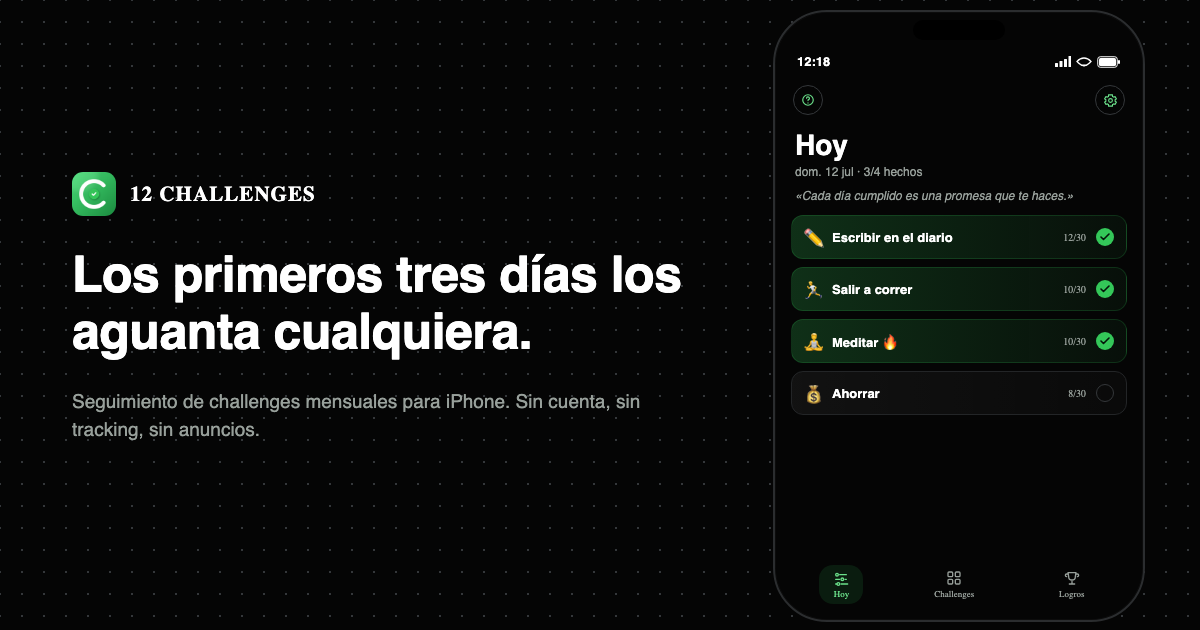
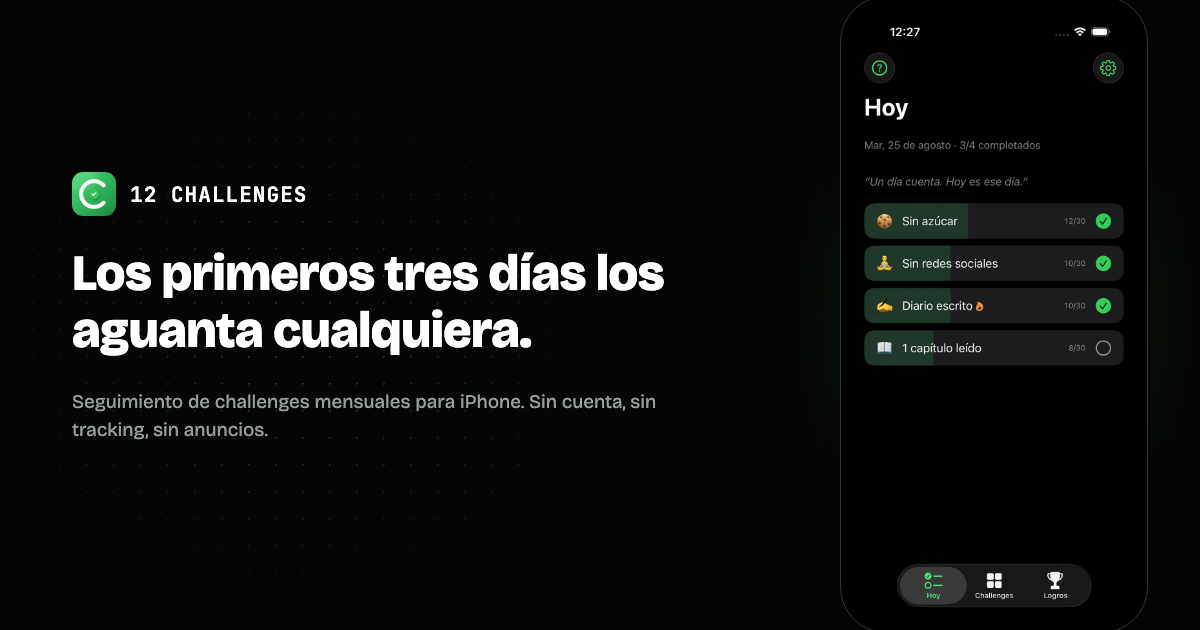
fix: OG-Bilder ES/FR nutzen echten App-Screenshot + Glow-Effekte
- Phone-Mockup zeigt jetzt den echten screenshot-heute-{lang}.webp
  statt einer nachgebauten Fake-UI (gleiche .phone-frame/.phone-screen-
  Logik wie in styles.css)
- Radialer Dot-Grid-Glow hinter dem Textblock ergänzt (an DE-Original
  pixelweise vermessen)
- Grüner Accent-Glow hinter dem Phone ergänzt (.phone-wrap::before,
  wie im Rest der Seite)

diff --git a/scripts/og-image/template.html b/scripts/og-image/template.html
@@ -40,9 +40,19 @@
   body {
     position: relative;
     font-family: "Bricolage Grotesque", sans-serif;
+  }
+
+  /* Dot-grid, faded via radial mask centered on the text block (matches
+     the falloff measured on assets/og-image-de.png: brightest around
+     x=300 y=340, fading out toward the canvas edges). */
+  .dot-grid {
+    position: absolute;
+    inset: 0;
     background-image: radial-gradient(circle, var(--border-visible) 1px, transparent 1px);
-    background-size: 22px 22px;
-    background-position: -11px -11px;
+    background-size: 27px 27px;
+    background-position: -8px -8px;
+    -webkit-mask-image: radial-gradient(ellipse 480px 420px at 300px 340px, #000 0%, transparent 75%);
+    mask-image: radial-gradient(ellipse 480px 420px at 300px 340px, #000 0%, transparent 75%);
   }
 
   .wordmark {
@@ -84,115 +94,65 @@
     color: var(--text-secondary);
   }
 
-  /* --- phone mockup --- */
-  .phone {
+  /* --- phone mockup: same recipe as .phone-wrap/.phone-frame/.phone-screen
+     in the site's own styles.css, just placed absolutely for the OG canvas.
+     Content is a real app screenshot, not a redrawn UI. --- */
+  .phone-wrap {
     position: absolute;
-    right: 55px;
-    top: 10px;
-    width: 372px;
-    height: 612px;
-    background: var(--black);
-    border: 2px solid #2b2d2f;
-    border-radius: 54px;
-    padding: 16px 16px 14px;
-    box-shadow: 0 0 0 1px rgba(255,255,255,0.03) inset;
+    right: 52px;
+    top: -4px;
+    width: 308px;
   }
-  .phone::before {
+  .phone-wrap::before {
     content: "";
     position: absolute;
-    top: 8px;
+    inset: 8% 8%;
+    background: radial-gradient(circle, var(--accent) 0%, transparent 70%);
+    opacity: 0.45;
+    filter: blur(50px);
+    z-index: 0;
+  }
+  .phone-frame {
+    position: relative;
+    z-index: 1;
+    width: 100%;
+    background: #000;
+    border: 1px solid var(--border-visible);
+    border-radius: 46px;
+    padding: 12px;
+    box-shadow: 0 40px 90px -30px rgba(0, 0, 0, 0.85);
+  }
+  .phone-frame::before {
+    content: "";
+    position: absolute;
+    top: 22px;
     left: 50%;
     transform: translateX(-50%);
-    width: 92px;
-    height: 20px;
+    width: 34%;
+    height: 22px;
     background: #000;
-    border-radius: 12px;
+    border-radius: 20px;
+    z-index: 2;
   }
-
-  .status-row {
-    display: flex;
-    justify-content: space-between;
-    align-items: center;
-    color: var(--text-display);
-    font-size: 13px;
-    font-weight: 600;
-    padding: 0 6px;
-    margin-top: 26px;
+  .phone-screen {
+    width: 100%;
+    aspect-ratio: 9 / 19.5;
+    border-radius: 34px;
+    overflow: hidden;
+    background: #000;
   }
-  .status-row .icons { display: flex; align-items: center; gap: 5px; }
-  .status-row svg { display: block; }
-
-  .top-icons {
-    display: flex;
-    justify-content: space-between;
-    padding: 16px 2px 0;
+  .phone-screen img {
+    width: 100%;
+    height: 100%;
+    object-fit: cover;
+    object-position: top;
+    display: block;
   }
-  .circle-btn {
-    width: 30px;
-    height: 30px;
-    border-radius: 50%;
-    border: 1.5px solid var(--border-visible);
-    display: flex;
-    align-items: center;
-    justify-content: center;
-    color: var(--accent-light);
-  }
-
-  .screen-title {
-    font-size: 28px;
-    font-weight: 800;
-    color: var(--text-display);
-    padding: 14px 4px 0;
-  }
-  .screen-date {
-    font-size: 12px;
-    color: var(--text-secondary);
-    padding: 4px 4px 0;
-  }
-  .screen-quote {
-    font-size: 12px;
-    font-style: italic;
-    color: var(--text-secondary);
-    padding: 10px 4px 12px;
-  }
-
-  .task {
-    display: flex;
-    align-items: center;
-    gap: 10px;
-    height: 44px;
-    border-radius: 12px;
-    padding: 0 12px;
-    margin-bottom: 8px;
-    background: linear-gradient(90deg, rgba(52,199,89,0.22), rgba(52,199,89,0.05));
-    border: 1px solid rgba(52,199,89,0.18);
-  }
-  .task .emoji { font-size: 16px; width: 18px; text-align: center; }
-  .task .name { flex: 1; font-size: 13px; font-weight: 600; color: var(--text-display); }
-  .task .count { font-size: 10px; color: var(--text-secondary); font-family: "JetBrains Mono"; }
-  .task .check {
-    width: 18px; height: 18px; border-radius: 50%;
-    display: flex; align-items: center; justify-content: center;
-  }
-  .task .check.done { background: var(--accent); }
-  .task .check.open { border: 1.5px solid var(--border-visible); }
-
-  .tabbar {
-    position: absolute;
-    bottom: 16px;
-    left: 16px;
-    right: 16px;
-    display: flex;
-    justify-content: space-around;
-    align-items: center;
-    padding-top: 8px;
-  }
-  .tab { display: flex; flex-direction: column; align-items: center; gap: 3px; font-size: 9px; font-family: "JetBrains Mono"; color: var(--text-secondary); }
-  .tab.active { color: var(--accent-light); background: rgba(52,199,89,0.12); border-radius: 14px; padding: 5px 14px; }
-  .tab:not(.active) { padding: 5px 14px; }
 </style>
 </head>
 <body>
+
+  <div class="dot-grid"></div>
 
   <div class="wordmark">
     <img src="../../assets/app-icon.png" alt="" />
@@ -202,64 +162,10 @@
   <div class="headline">{{HEADLINE}}</div>
   <div class="sub">{{SUBTEXT}}</div>
 
-  <div class="phone">
-    <div class="status-row">
-      <span>{{TIME}}</span>
-      <span class="icons">
-        <svg width="16" height="11" viewBox="0 0 16 11" fill="none"><rect x="0" y="7" width="3" height="4" rx="0.5" fill="white"/><rect x="4.5" y="5" width="3" height="6" rx="0.5" fill="white"/><rect x="9" y="3" width="3" height="8" rx="0.5" fill="white"/><rect x="13.5" y="0" width="3" height="11" rx="0.5" fill="white"/></svg>
-        <svg width="16" height="12" viewBox="0 0 16 12" fill="none"><path d="M8 9.5C5.8 9.5 3.9 8.5 2.5 7L1 5.5C2.9 3.4 5.3 2 8 2C10.7 2 13.1 3.4 15 5.5L13.5 7C12.1 8.5 10.2 9.5 8 9.5Z" stroke="white" stroke-width="1.3"/><circle cx="8" cy="9.5" r="1.1" fill="white"/></svg>
-        <svg width="24" height="12" viewBox="0 0 24 12" fill="none"><rect x="0.75" y="0.75" width="19.5" height="10.5" rx="2.5" stroke="white" stroke-width="1"/><rect x="2" y="2" width="17" height="8" rx="1.5" fill="white"/><rect x="21" y="4" width="2" height="4" rx="1" fill="white"/></svg>
-      </span>
-    </div>
-    <div class="top-icons">
-      <div class="circle-btn">
-        <svg width="14" height="14" viewBox="0 0 24 24" fill="none" stroke="currentColor" stroke-width="2" stroke-linecap="round"><circle cx="12" cy="12" r="9"/><path d="M9.5 9a2.5 2.5 0 1 1 3.5 2.3c-.8.4-1 .9-1 1.7"/><circle cx="12" cy="17" r="0.3" fill="currentColor"/></svg>
-      </div>
-      <div class="circle-btn">
-        <svg width="15" height="15" viewBox="0 0 24 24" fill="none" stroke="currentColor" stroke-width="1.8"><circle cx="12" cy="12" r="3"/><path d="M19.4 13a7.7 7.7 0 0 0 0-2l2-1.5-2-3.5-2.4.6a7.6 7.6 0 0 0-1.7-1L15 3h-6l-.3 2.6a7.6 7.6 0 0 0-1.7 1L4.6 6 2.6 9.5 4.6 11a7.7 7.7 0 0 0 0 2l-2 1.5 2 3.5 2.4-.6a7.6 7.6 0 0 0 1.7 1L9 21h6l.3-2.6a7.6 7.6 0 0 0 1.7-1l2.4.6 2-3.5-2-1.5Z"/></svg>
-      </div>
-    </div>
-    <div class="screen-title">{{TODAY}}</div>
-    <div class="screen-date">{{DATE_LINE}}</div>
-    <div class="screen-quote">{{QUOTE}}</div>
-
-    <div class="task">
-      <span class="emoji">✏</span>
-      <span class="name">{{TASK1}}</span>
-      <span class="count">{{TASK1_COUNT}}</span>
-      <span class="check done"><svg width="10" height="8" viewBox="0 0 10 8" fill="none"><path d="M1 4L3.5 6.5L9 1" stroke="#04140a" stroke-width="1.6" stroke-linecap="round" stroke-linejoin="round"/></svg></span>
-    </div>
-    <div class="task">
-      <span class="emoji">🏃</span>
-      <span class="name">{{TASK2}}</span>
-      <span class="count">{{TASK2_COUNT}}</span>
-      <span class="check done"><svg width="10" height="8" viewBox="0 0 10 8" fill="none"><path d="M1 4L3.5 6.5L9 1" stroke="#04140a" stroke-width="1.6" stroke-linecap="round" stroke-linejoin="round"/></svg></span>
-    </div>
-    <div class="task">
-      <span class="emoji">🧘</span>
-      <span class="name">{{TASK3}}</span>
-      <span class="count">{{TASK3_COUNT}}</span>
-      <span class="check done"><svg width="10" height="8" viewBox="0 0 10 8" fill="none"><path d="M1 4L3.5 6.5L9 1" stroke="#04140a" stroke-width="1.6" stroke-linecap="round" stroke-linejoin="round"/></svg></span>
-    </div>
-    <div class="task" style="background:linear-gradient(90deg, rgba(255,255,255,0.05), rgba(255,255,255,0.02)); border-color: var(--border);">
-      <span class="emoji">💰</span>
-      <span class="name">{{TASK4}}</span>
-      <span class="count">{{TASK4_COUNT}}</span>
-      <span class="check open"></span>
-    </div>
-
-    <div class="tabbar">
-      <div class="tab active">
-        <svg width="16" height="16" viewBox="0 0 24 24" fill="none" stroke="currentColor" stroke-width="2" stroke-linecap="round"><circle cx="6" cy="7" r="2"/><path d="M10 7h10"/><circle cx="14" cy="14" r="2"/><path d="M4 14h6M18 14h2"/><circle cx="8" cy="21" r="2"/><path d="M4 21h2m6 0h10"/></svg>
-        {{TAB1}}
-      </div>
-      <div class="tab">
-        <svg width="16" height="16" viewBox="0 0 24 24" fill="none" stroke="currentColor" stroke-width="2" stroke-linecap="round" stroke-linejoin="round"><rect x="3" y="3" width="7" height="7" rx="1.5"/><rect x="14" y="3" width="7" height="7" rx="1.5"/><rect x="3" y="14" width="7" height="7" rx="1.5"/><rect x="14" y="14" width="7" height="7" rx="1.5"/></svg>
-        {{TAB2}}
-      </div>
-      <div class="tab">
-        <svg width="16" height="16" viewBox="0 0 24 24" fill="none" stroke="currentColor" stroke-width="2" stroke-linecap="round" stroke-linejoin="round"><path d="M8 21h8M12 17v4M6 4h12l-1 6a5 5 0 0 1-10 0Z"/><path d="M6 6H4a2 2 0 0 0 0 4M18 6h2a2 2 0 0 1 0 4"/></svg>
-        {{TAB3}}
+  <div class="phone-wrap">
+    <div class="phone-frame">
+      <div class="phone-screen">
+        <img src="../../assets/{{SCREENSHOT}}" alt="" />
       </div>
     </div>
   </div>

diff --git a/scripts/og-image/generate.py b/scripts/og-image/generate.py
@@ -20,24 +20,12 @@ CONTENT = {
     "es": dict(
         HEADLINE="Los primeros tres días los aguanta cualquiera.",
         SUBTEXT="Seguimiento de challenges mensuales para iPhone. Sin cuenta, sin tracking, sin anuncios.",
-        TIME="12:18", TODAY="Hoy", DATE_LINE="dom. 12 jul · 3/4 hechos",
-        QUOTE="«Cada día cumplido es una promesa que te haces.»",
-        TASK1="Escribir en el diario", TASK1_COUNT="12/30",
-        TASK2="Salir a correr", TASK2_COUNT="10/30",
-        TASK3="Meditar 🔥", TASK3_COUNT="10/30",
-        TASK4="Ahorrar", TASK4_COUNT="8/30",
-        TAB1="Hoy", TAB2="Challenges", TAB3="Logros",
+        SCREENSHOT="screenshot-heute-es.webp",
     ),
     "fr": dict(
         HEADLINE="Les trois premiers jours, tout le monde y arrive.",
         SUBTEXT="Suivi de challenges mensuels pour iPhone. Sans compte, sans tracking, sans pub.",
-        TIME="12:18", TODAY="Aujourd’hui", DATE_LINE="dim. 12 juil. · 3/4 faits",
-        QUOTE="« Chaque jour accompli est une promesse que tu te fais. »",
-        TASK1="Écrire un journal", TASK1_COUNT="12/30",
-        TASK2="Aller courir", TASK2_COUNT="10/30",
-        TASK3="Méditer 🔥", TASK3_COUNT="10/30",
-        TASK4="Économiser", TASK4_COUNT="8/30",
-        TAB1="Aujourd’hui", TAB2="Challenges", TAB3="Succès",
+        SCREENSHOT="screenshot-heute-fr.webp",
     ),
     # DE/EN reference images predate this script and weren't generated by it;
     # add entries here only if they need to be regenerated from scratch.
